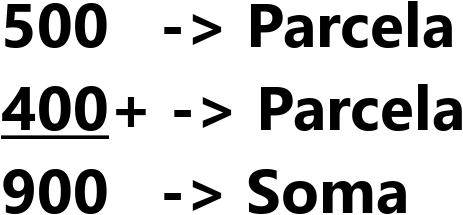
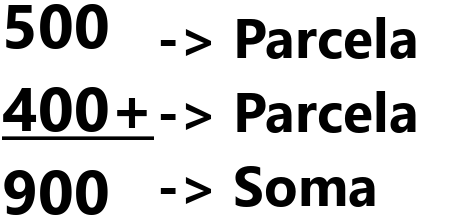
terminei a parte do HTML e das imagens

diff --git a/desafios/site-matematica/index.html b/desafios/site-matematica/index.html
@@ -17,21 +17,20 @@
             <h1>Introdução</h1>
             <p>Antes de começar, existem quatro operações básicas na matemáticas, que são a <strong>adição</strong>, <strong>subtração</strong>, <strong>multiplicação</strong> e <strong>divisão</strong>. Cada uma são aplicadas para diferentes situações e cada uma se complementam. Elas abrangem cálculos que são utilizados em equações, logo, são de suma importância, apesar de serem simples e básicas.</p>
 
-            <h2>adição</h2>
+            <h2>Adição</h2>
             <p>Adição significa somar, adicionar, acrescentar, entre outros. Seu sinal é o "+" (mais). O que vem antes do sinal de igualdade (=) é chamado de parcela e o que vem após é chamado de soma, ou total.</p>
             <p>Ilustração:</p>
-            <img src="" alt="Ilustração de parcelas e soma">
+            <img src="imagens/adicao.png" alt="Ilustração de parcelas e soma">
 
             <h2>Subtração</h2>
             <p>Subtração significa subtrair, tirar, decrescer. Seu sinal é o "-" (menos). O que vem antes do sinal de igualdade é minuendo e subtraendo, o que vem depois é chamado de resto ou diferença.</p>
-            <p>Ilustração
-                <img src="" alt="Ilustração de minuendo, subtraendo e resto">
-            </p>
+            <p>Ilustração:</p>
+            <img src="imagens/subtracao.png" alt="Ilustração de minuendo, subtraendo e resto">
 
             <h2>Multiplicação</h2>
             <p>Multiplicação significa multiplicar, acrescentar e também duplicar, triplicar quadruplicar e assim por diante. Seu sinal é o "x" (multiplicar). O que vem antes do sinal de igualdade é chamado de fator e o que depois é chamado de produto.</p>
             <p>Ilustração:</p>
-            <img src="" alt="Ilustração de fatores e produtos">
+            <img src="imagens/multiplicacao.png" alt="Ilustração de fatores e produtos">
         </article>
     </main>
     <footer>Site criado por Edgar Augusto</footer>
